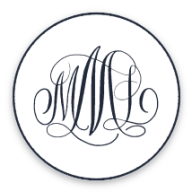
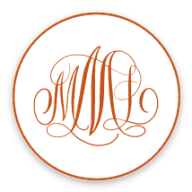
Add files via upload

diff --git a/components/StorySection.js b/components/StorySection.js
@@ -1,0 +1,42 @@
+import Image from "next/image";
+
+// The owner's own words about the shop, used verbatim - this is the
+// closest thing to a mission statement/about page the site has, so it
+// gets a proper, prominent section rather than being buried in the footer.
+const BLURB = [
+  "Michael Millard-Lowe Antiques is a nationally known provider of fine antiques. We source our unique pieces almost exclusively in France and Italy. We bring the flavor and style of the Continent to the friends of our shop.",
+  "Unique, different and stylish are the words we live by. Only the best, curated antiques and curiosities are offered for sale to the friends of our shop.",
+  "As a licensed appraiser and auctioneer, we accurately represent and guarantee all our products. Buy with confidence.",
+];
+
+export default function StorySection() {
+  return (
+    <section className="border-y border-espresso-900/10 bg-parchment-100/70">
+      <div className="mx-auto grid max-w-7xl items-center gap-10 px-4 py-14 sm:px-6 md:grid-cols-2 md:py-20 lg:px-8">
+        <div className="relative order-2 aspect-[4/3] overflow-hidden rounded-2xl shadow-cardHover md:order-1">
+          <Image
+            src="/shop-interior.webp"
+            alt="Inside the Michael Millard-Lowe Antiques showroom"
+            fill
+            sizes="(min-width: 768px) 45vw, 90vw"
+            className="object-cover"
+          />
+        </div>
+
+        <div className="order-1 md:order-2">
+          <p className="text-xs font-semibold uppercase tracking-[0.2em] text-clay-600">
+            Our Story
+          </p>
+          <h2 className="mt-3 font-serif text-3xl font-semibold leading-tight text-espresso-950 sm:text-4xl">
+            Fine Antiques, Sourced from the Continent
+          </h2>
+          <div className="mt-5 space-y-4 text-base leading-relaxed text-espresso-700">
+            {BLURB.map((paragraph) => (
+              <p key={paragraph.slice(0, 24)}>{paragraph}</p>
+            ))}
+          </div>
+        </div>
+      </div>
+    </section>
+  );
+}

diff --git a/tailwind.config.js b/tailwind.config.js
@@ -14,16 +14,37 @@ module.exports = {
           700: "#332821",
           600: "#4a3a2e",
           500: "#6b5540",
+          // 100/200/300/400 were referenced throughout the site (card
+          // placeholders, skeleton loaders, badges, empty states) but were
+          // never actually defined here - Tailwind silently drops classes
+          // for undefined shades, so every one of those elements has been
+          // rendering with NO background at all. That's most of what read
+          // as flat "white on off-white": placeholders that were supposed
+          // to have a soft warm tan tint had nothing. Filling out the ramp
+          // fixes it.
+          400: "#93764f",
+          300: "#c7a877",
+          200: "#ddc7a1",
+          100: "#ecdfc9",
         },
+        // Aligned to the shop's actual monogram ink color (a warm rust
+        // orange) so the brand accent used across the site - sale badges,
+        // links, buttons - genuinely matches the logo instead of an
+        // unrelated terracotta guess.
         clay: {
-          400: "#d98f6a",
-          500: "#c76a45",
-          600: "#b5542f",
+          400: "#d9824c",
+          500: "#c2541b",
+          600: "#9c4216",
         },
+        // Deepened from the original near-white scale (50 was #fbf8f3,
+        // barely distinguishable from stark white) into a warmer, richer
+        // "aged paper" cream range so surfaces actually read as antique
+        // parchment instead of flat off-white.
         parchment: {
-          50: "#fbf8f3",
-          100: "#f4ede1",
-          200: "#e9dcc7",
+          50: "#f8f1e3",
+          100: "#eeddba",
+          200: "#e0c48c",
+          300: "#cda868",
         },
       },
       fontFamily: {

diff --git a/components/Hero.js b/components/Hero.js
@@ -4,8 +4,23 @@ import { BUSINESS } from "@/lib/constants";
 
 export default function Hero({ heroImage }) {
   return (
-    <section className="relative overflow-hidden bg-gradient-to-br from-parchment-100 via-parchment-50 to-espresso-100/60">
-      <div className="mx-auto grid max-w-7xl items-center gap-10 px-4 py-14 sm:px-6 md:grid-cols-2 md:py-20 lg:px-8">
+    <section className="relative overflow-hidden bg-parchment-100">
+      {/* Blurred shop-interior photo as an ambient backdrop - scaled up
+          beyond the container so the blur filter never reveals a sharp
+          edge, then washed with a warm parchment/espresso gradient so the
+          foreground text stays easily readable over it. */}
+      <div className="absolute inset-0" aria-hidden="true">
+        <Image
+          src="/shop-interior.webp"
+          alt=""
+          fill
+          priority
+          className="scale-110 object-cover object-center blur-2xl"
+        />
+        <div className="absolute inset-0 bg-gradient-to-br from-parchment-50/95 via-parchment-50/90 to-espresso-950/50" />
+      </div>
+
+      <div className="relative mx-auto grid max-w-7xl items-center gap-10 px-4 py-14 sm:px-6 md:grid-cols-2 md:py-20 lg:px-8">
         <div className="animate-fadeInUp">
           <p className="text-xs font-semibold uppercase tracking-[0.2em] text-clay-600">
             {BUSINESS.tagline} &middot; Norfolk, VA

diff --git a/app/globals.css b/app/globals.css
@@ -7,12 +7,20 @@ html {
 }
 
 body {
-  background-color: #fbf8f3;
+  background-color: #f8f1e3;
+  /* Two soft, warm radial washes rather than a flat fill - gives the page
+     canvas a faint sense of depth/aging (like toned paper) instead of the
+     flat, slightly cheap-looking solid off-white it had before. Subtle by
+     design: it should read as "warm room light," not a visible pattern. */
+  background-image:
+    radial-gradient(ellipse 900px 500px at 15% -10%, rgba(194, 84, 27, 0.06), transparent 60%),
+    radial-gradient(ellipse 900px 600px at 100% 10%, rgba(18, 14, 11, 0.05), transparent 55%);
+  background-attachment: fixed;
 }
 
 ::selection {
-  background-color: #c76a45;
-  color: #fbf8f3;
+  background-color: #c2541b;
+  color: #f8f1e3;
 }
 
 /* Subtle shared transition for anything that changes on hover */

diff --git a/components/LikesNavLink.js b/components/LikesNavLink.js
@@ -18,7 +18,7 @@ export default function LikesNavLink({ className = "" }) {
           stroke="currentColor"
           strokeLinecap="round"
           strokeLinejoin="round"
-          d="M12 21s-6.7-4.35-9.3-8.1C.8 9.9 1.7 6.4 4.7 5.1c2.2-.95 4.4 0 5.8 1.9.3.4.9.4 1.2 0 1.4-1.9 3.6-2.85 5.8-1.9 3 1.3 3.9 4.8 2 7.8C18.7 16.65 12 21 12 21z"
+          d="M7.9 3.7 6.2 4.6 4.9 6.2 4.4 7.9 4.5 9.5 4.9 10.6 5.5 11.5 6.6 12.5 7.8 13.2 11.5 18.4 11.7 19.1 12.1 19.3 12.7 18.1 16.2 13.2 17.8 12.2 18.8 11.1 19.5 9.5 19.5 7.3 19.1 6.2 18.5 5.3 17.4 4.3 16.1 3.7 14.2 3.5 12.2 4.2 9.8 3.5 Z"
         />
       </svg>
       {count > 0 && (

diff --git a/components/LikeButton.js b/components/LikeButton.js
@@ -30,7 +30,7 @@ export default function LikeButton({ listingId, className = "", size = "md" }) {
         <path
           strokeLinecap="round"
           strokeLinejoin="round"
-          d="M12 21s-6.7-4.35-9.3-8.1C.8 9.9 1.7 6.4 4.7 5.1c2.2-.95 4.4 0 5.8 1.9.3.4.9.4 1.2 0 1.4-1.9 3.6-2.85 5.8-1.9 3 1.3 3.9 4.8 2 7.8C18.7 16.65 12 21 12 21z"
+          d="M7.9 3.7 6.2 4.6 4.9 6.2 4.4 7.9 4.5 9.5 4.9 10.6 5.5 11.5 6.6 12.5 7.8 13.2 11.5 18.4 11.7 19.1 12.1 19.3 12.7 18.1 16.2 13.2 17.8 12.2 18.8 11.1 19.5 9.5 19.5 7.3 19.1 6.2 18.5 5.3 17.4 4.3 16.1 3.7 14.2 3.5 12.2 4.2 9.8 3.5 Z"
         />
       </svg>
     </button>

diff --git a/components/MobileTabBar.js b/components/MobileTabBar.js
@@ -24,7 +24,7 @@ const ICONS = {
     <path
       strokeLinecap="round"
       strokeLinejoin="round"
-      d="M12 21s-6.7-4.35-9.3-8.1C.8 9.9 1.7 6.4 4.7 5.1c2.2-.95 4.4 0 5.8 1.9.3.4.9.4 1.2 0 1.4-1.9 3.6-2.85 5.8-1.9 3 1.3 3.9 4.8 2 7.8C18.7 16.65 12 21 12 21z"
+      d="M7.9 3.7 6.2 4.6 4.9 6.2 4.4 7.9 4.5 9.5 4.9 10.6 5.5 11.5 6.6 12.5 7.8 13.2 11.5 18.4 11.7 19.1 12.1 19.3 12.7 18.1 16.2 13.2 17.8 12.2 18.8 11.1 19.5 9.5 19.5 7.3 19.1 6.2 18.5 5.3 17.4 4.3 16.1 3.7 14.2 3.5 12.2 4.2 9.8 3.5 Z"
     />
   ),
   call: (

diff --git a/app/page.js b/app/page.js
@@ -1,4 +1,5 @@
 import Hero from "@/components/Hero";
+import StorySection from "@/components/StorySection";
 import CategoryGrid from "@/components/CategoryGrid";
 import ListingCard from "@/components/ListingCard";
 import Link from "next/link";
@@ -14,6 +15,8 @@ export default function HomePage() {
   return (
     <>
       <Hero heroImage={featured[0]?.images?.[0]} />
+
+      <StorySection />
 
       <CategoryGrid listings={all} />
 
